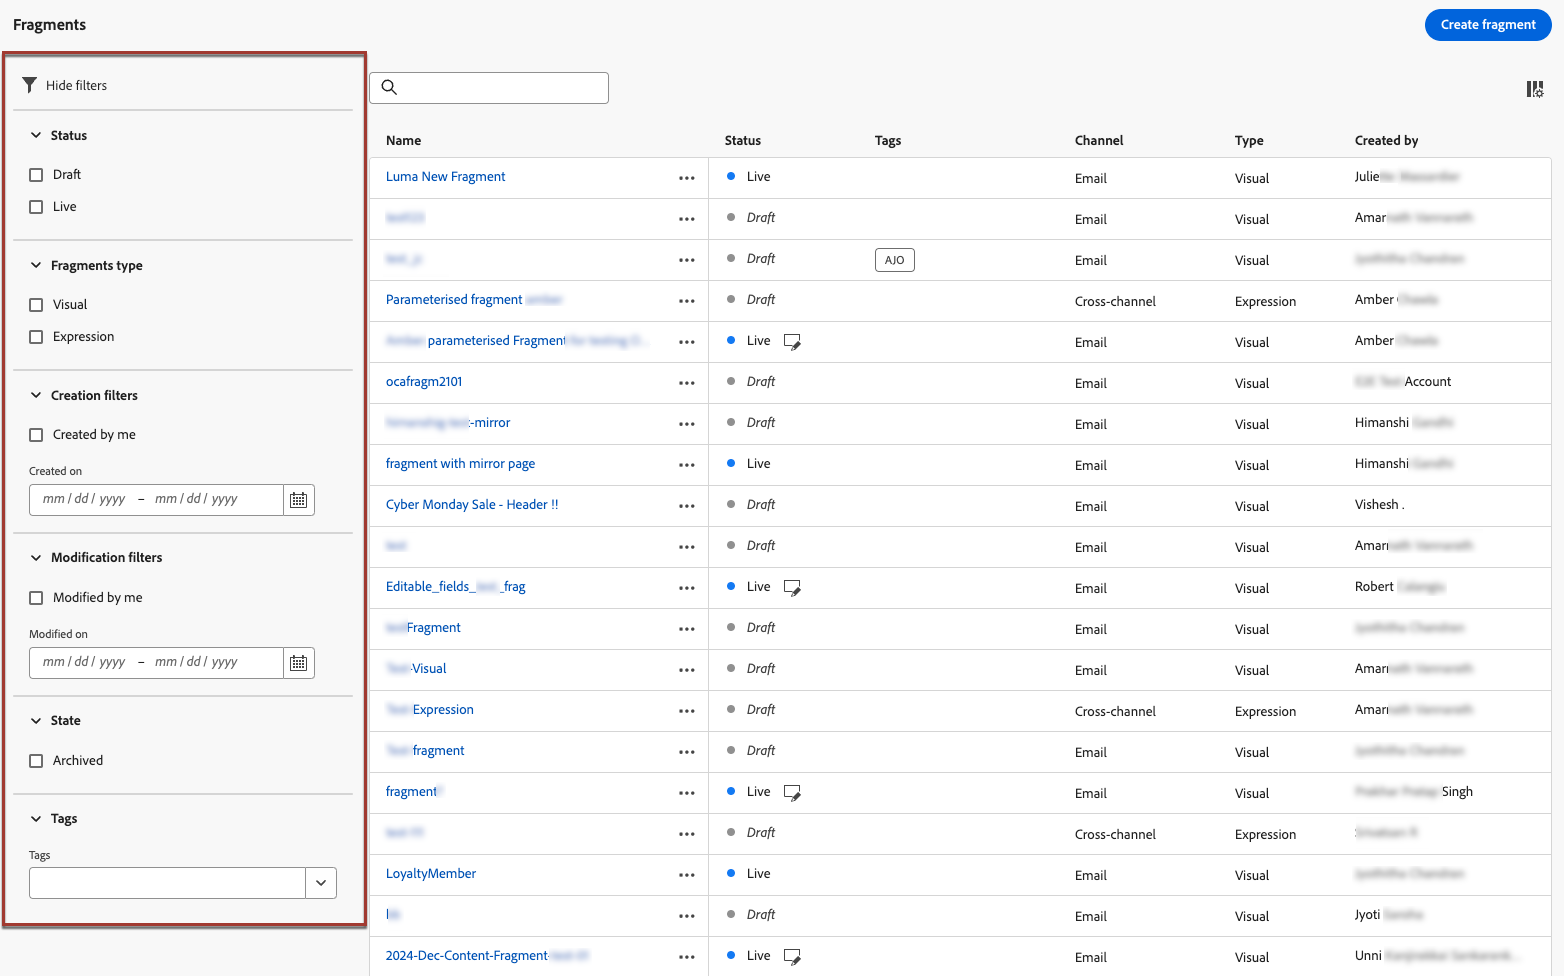
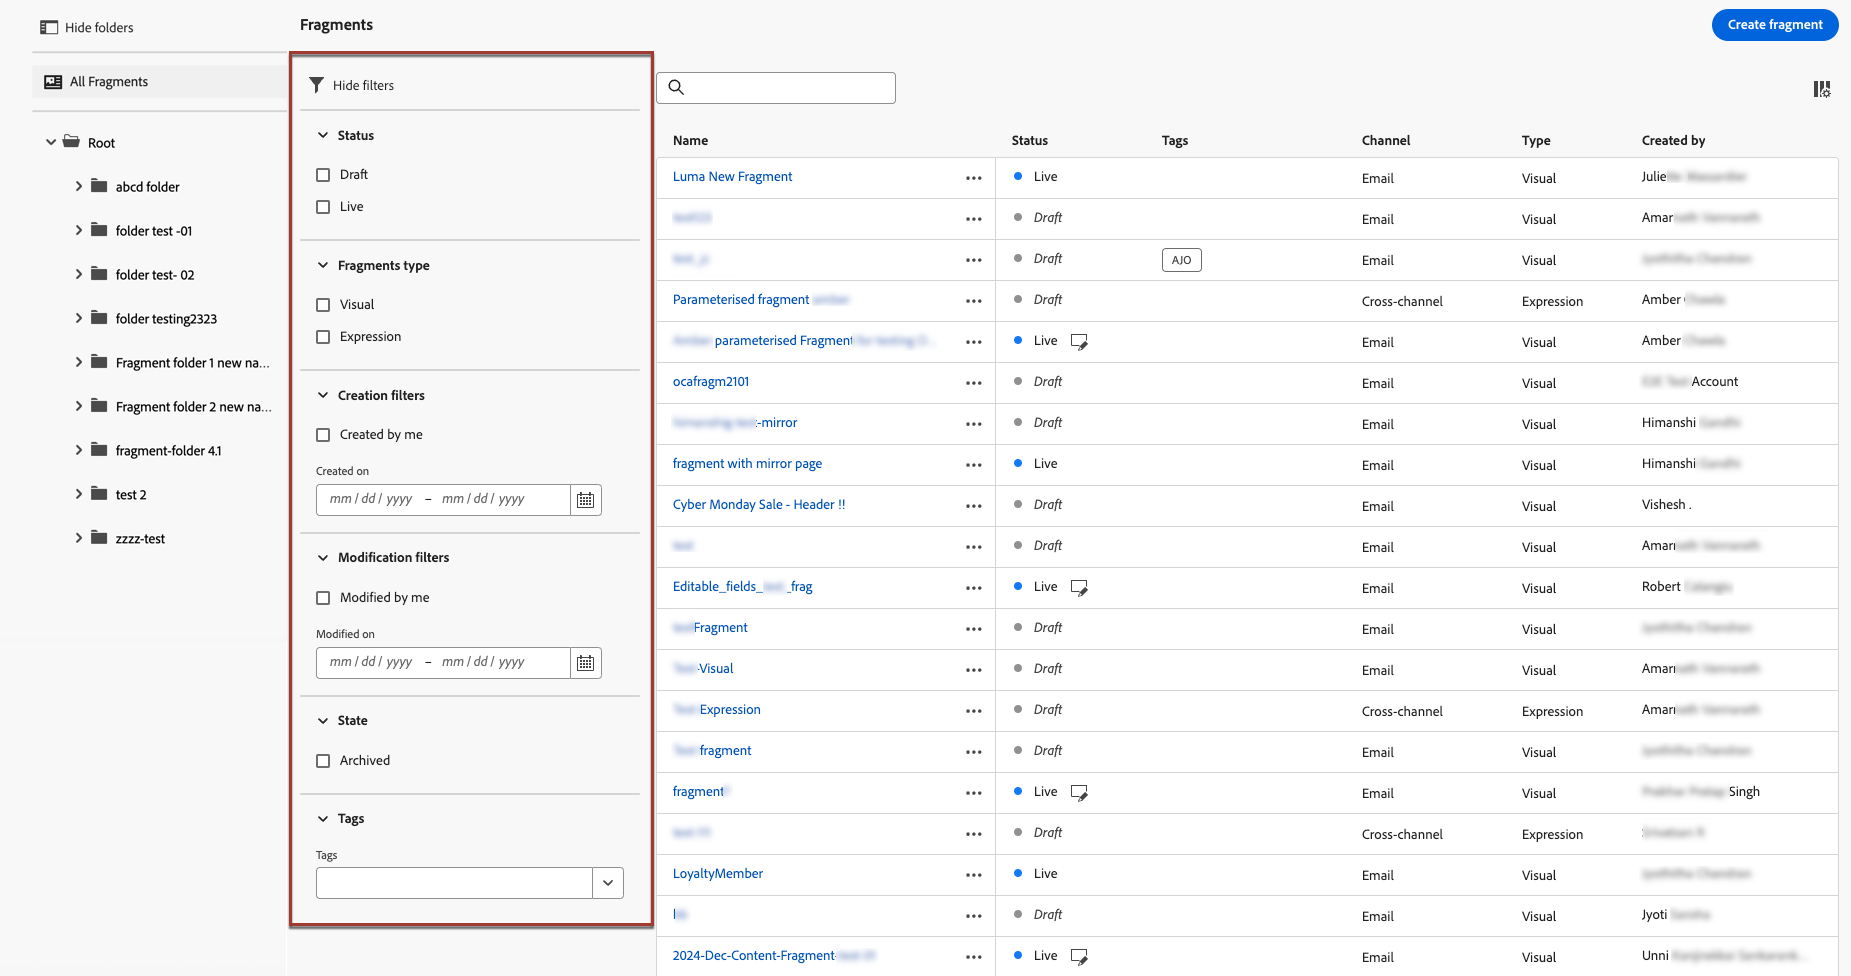
Fragments & templates folders (#1855)
* DOCAC-12336 - Fragment folders

* DOCAC-12337 - Template folders

* Fragment/Template folders update

* Screenshots blur

* DOCAC-12284 - Content locking video

* DOCAC-12336/37 - Fragment/template folders LA

* content templates folders screen updates

* Content templates folders screenshots

* Fragments screenshots updates

* Update release-notes.md

diff --git a/help/using/content-management/manage-fragments.md b/help/using/content-management/manage-fragments.md
@@ -17,6 +17,16 @@ To manage your fragments, access the fragment list from the **[!UICONTROL Conten
 
 All the fragments that were created on the current sandbox - either [from the **[!UICONTROL Fragments]** menu](#create-fragments), either using the [Save as fragment](#save-as-fragment) option - are displayed.
 
+The pane on the left allows you to organize fragments into folders. By default, all fragments are displayed. When selecting a folder, only the fragments and folders included in the selected folder are displayed. [Learn more](#folders)
+
+>[!NOTE]
+>
+>Fragment folders are only available for a set of organizations (Limited Availability) and will be gradually rolled out to more users.
+
+![](assets/fragment-list-folders.png)
+
+To find a specific item, start typing a name in the search field. When a [folder](#folders) is selected, the search applies to all fragments or folders in the first level of hierarchy of that folder<!--(not nested items)-->.
+
 You can filter fragments on their:
 
 * Status (Draft or Live)
@@ -37,10 +47,54 @@ From the **[!UICONTROL More actions]** button next to each fragment, you can:
 * Use the **[!UICONTROL Explore references]** option to see the journeys, campaigns or templates where it is used. [Learn more](#explore-references)
 * Archive the fragment. [Learn more](#archive-fragments)
 * Edit the fragment's tags. [Learn how to work with Unified tags](../start/search-filter-categorize.md#tags)
+* Move the fragment to a folder. [Learn more](#folders)
 
-![](assets/fragment-list-more-actions.png){width="70%" align="left"}
+![](assets/fragment-list-more-actions.png)
 
-## Fragments' statuses
+## Use folders to manage fragments {#folders}
+
+>[!CONTEXTUALHELP]
+>id="ajo_fragments_folders"
+>title="Organize your fragments into folders"
+>abstract="Use folders to categorize and manage your fragments according to your organization needs."
+
+>[!AVAILABILITY]
+>
+>Fragment folders are only available for a set of organizations (Limited Availability) and will be gradually rolled out to more users.
+
+To easily navigate your fragments, you can use folders to organize them more effectively into a structured hierarchy. This enables you to categorize and manage the items according to your organization needs.
+
+![](assets/fragment-folders.png)
+
+1. Click the **[!UICONTROL All Fragments]** button to display all the items previsously created without the folder grouping.
+
+1. Click the **[!UICONTROL Root]** folder to display all the folders created.
+
+    >[!NOTE]
+    >
+    >If you have not created folders yet, all the fragments are displayed.
+
+1. Click any folder inside the **[!UICONTROL Root]** folder to display its content.
+
+1. Upon clicking the **[!UICONTROL Root]** folder or any other folder, the **[!DNL Create folder]** button displays. Select it.
+
+    ![](assets/fragment-create-folder.png)
+
+1. Type a name for the new folder and click **[!UICONTROL Save]**. The new folder displays on top of the fragment list inside the **[!UICONTROL Root]** folder, or inside the folder currently selected.
+
+1. You can click the **[!UICONTROL More actions]** button to rename or delete the folder.
+
+    ![](assets/fragment-folder-more-actions.png)
+
+1. Using the **[!UICONTROL More actions]** button, you can also move the fragment to another existing folder.
+
+    ![](assets/fragment-folder-moved.png)
+
+1. Now you can navigate to the folder that you just created. Each new fragment you [create](create-fragments.md) from here is saved into the current folder.
+
+    ![](assets/fragment-folder-create.png)
+
+## Fragments' statuses {#fragments-statuses}
 
 >[!CONTEXTUALHELP]
 >id="ajo_fragment_statuses"

diff --git a/help/using/content-management/access-content-templates.md b/help/using/content-management/access-content-templates.md
@@ -18,6 +18,16 @@ To access the content template list, select **[!UICONTROL Content Management]** 
 
 All the templates that were created on the current sandbox - either from a journey or a campaign using the **[!UICONTROL Save as template]** option, either from the **[!UICONTROL Content Templates]** menu - are displayed. [Learn how to create templates](#create-content-templates)
 
+The pane on the left allows you to organize content templates into folders. By default, all templates are displayed. When selecting a folder, only the templates and folders included in the selected folder are displayed. [Learn more](#folders)
+
+>[!NOTE]
+>
+>Content template folders are only available for a set of organizations (Limited Availability) and will be gradually rolled out to more users.
+
+![](assets/content-template-list-folders.png)
+
+To find a specific item, start typing a name in the search field. When a [folder](#folders) is selected, the search applies to all content templates or folders in the first level of hierarchy of that folder<!--(not nested items)-->.
+
 You can sort content templates by:
 * Type
 * Channel
@@ -27,6 +37,44 @@ You can sort content templates by:
 You can also choose to display only the items that yourself created or modified.
 
 ![](assets/content-template-list-filters.png)
+
+## Use folders to manage content templates {#folders}
+
+>[!AVAILABILITY]
+>
+>Content template folders are only available for a set of organizations (Limited Availability) and will be gradually rolled out to more users.
+
+To easily navigate your content templates, you can use folders to organize them more effectively into a structured hierarchy. This enables you to categorize and manage the items according to your organization needs.
+
+![](assets/content-template-folders.png)
+
+1. Click the **[!UICONTROL All content templates]** button to display all the items previsously created without the folder grouping.
+
+1. Click the **[!UICONTROL Root]** folder to display all the folders created.
+
+    >[!NOTE]
+    >
+    >If you have not created folders yet, all the content templates are displayed.
+
+1. Click any folder inside the **[!UICONTROL Root]** folder to display its content.
+
+1. Upon clicking the **[!UICONTROL Root]** folder or any other folder, the **[!DNL Create folder]** button displays. Select it.
+
+    ![](assets/content-template-create-folder.png)
+
+1. Type a name for the new folder and click **[!UICONTROL Save]**. The new folder displays on top of the content template list inside the **[!UICONTROL Root]** folder, or inside the folder currently selected.
+
+1. You can click the **[!UICONTROL More actions]** button to rename or delete the folder.
+
+    ![](assets/content-template-folder-more-actions.png)
+
+1. Using the **[!UICONTROL More actions]** button, you can also move the content template to another existing folder.
+
+    ![](assets/content-template-folder-moved.png)
+
+1. Now you can navigate to the folder that you just created. Each new content template you [create](create-content-templates.md) from here is saved into the current folder.
+
+    ![](assets/content-template-folder-create.png)
 
 ## Edit and delete content templates {#edit}
 

diff --git a/help/using/rn/release-notes.md b/help/using/rn/release-notes.md
@@ -17,6 +17,20 @@ exl-id: 06fa956a-b500-416e-9d42-b683c328e837
 [!DNL Adobe Journey Optimizer] continuously delivers new features, enhancements to existing features, and bug fixes. All changes are consolidated on the last week of each month in these release notes. [!DNL Adobe Journey Optimizer] is built natively on [!DNL Adobe Experience Platform] and inherits from its latest innovations and improvements. Learn more about these changes in [Adobe Experience Platform Release Notes](https://experienceleague.adobe.com/docs/experience-platform/release-notes/latest.html){target="_blank"}.
 
 
+## April '25 updates
+
+### Improvements {#25-04-improv}
+
+**Content management**
+
+To easily manage your content templates and fragments, you can now use folders to organize them more effectively into a structured hierarchy.
+
+Learn more in the [Content templates](../content-management/access-content-templates.md#folders) and [Fragments](../content-management/manage-fragments.md#folders) sections.
+
+>[!AVAILABILITY]
+>
+>This improvement is only available for a set of organizations (Limited Availability).
+
 ## March '25 release notes {#25-3-rn}
 
 
@@ -177,11 +191,7 @@ As a reminder, daily frequency capping in rule sets is only available for a set 
 
 For more information on business rules, refer to the [detailed documentation](../configuration/rule-sets.md).
 
-<!--**Content management**
-
-To easily manage your fragments and your content templates, you can now use folders to organize them more effectively into a structured hierarchy. This improvement is only available for a set of organizations (Limited Availability). <!--To gain access, contact your Adobe representative.
-
-**Deliverability**
+<!--**Deliverability**
 
 You can now choose to have your emails relayed to your SMTP servers instead of being sent directly from Journey Optimizer to ISPs. This allows you to route final email deliveries through your own Mail Transfer Agents and IPs, or to perform final validations on the emails before sending them to your recipients. The SMTP relay capacity is available on demand - contact your Adobe representative.-->
 

diff --git a/help/using/content-management/content-locking.md b/help/using/content-management/content-locking.md
@@ -39,7 +39,7 @@ Journey Optimizer allows you to lock content in email templates, either by locki
 
 >[!IMPORTANT]
 >
->Content locking is an editor-level feature for authors and doesn’t guarantee the content won’t be edited when it is imported or created through API.
+>Content locking is an editor-level feature for authors and doesn't guarantee the content won't be edited when it is imported or created through API.
 
 Content locking can be applied either at the **structure** level, or at the **component** level. Here are the main principales that apply at the structure and component level when locking content in your template.
 
@@ -58,6 +58,8 @@ Content locking can be applied either at the **structure** level, or at the **co
 >[!AVAILABILITY]
 >
 >Users with permissions to create content templates can enable content locking.
+
+➡ [Discover this feature in video](#video)
 
 ## Lock an email template {#define}
 
@@ -184,3 +186,9 @@ Here are some examples of emails edition and the associated content locking conf
 | Locked structure that cannot be deleted | ![](assets/locking-sample-structure-locked-conf.png){zoomable="yes"} | ![](assets/locking-sample-structure-locked.png){zoomable="yes"} |
 | Component with locked styles and that cannot be deleted. Users can only modify the content. | ![](assets/locking-sample-content-only-conf.png){zoomable="yes"} | ![](assets/locking-sample-content-only.png){zoomable="yes"} |
 | Editable component within a locked structure.| ![](assets/locking-sample-editable-component-conf.png){zoomable="yes"} | ![](assets/locking-sample-editable-component.png){zoomable="yes"} |
+
+## How-to video {#video}
+
+Learn how to lock content in email templates.
+
+>[!VIDEO](https://video.tv.adobe.com/v/3451591?quality=12)
